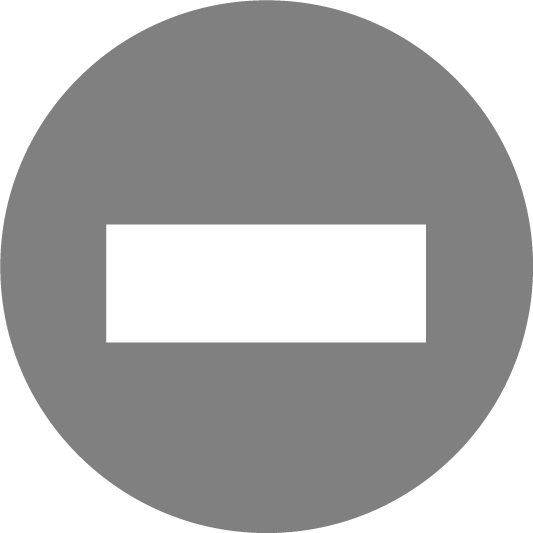
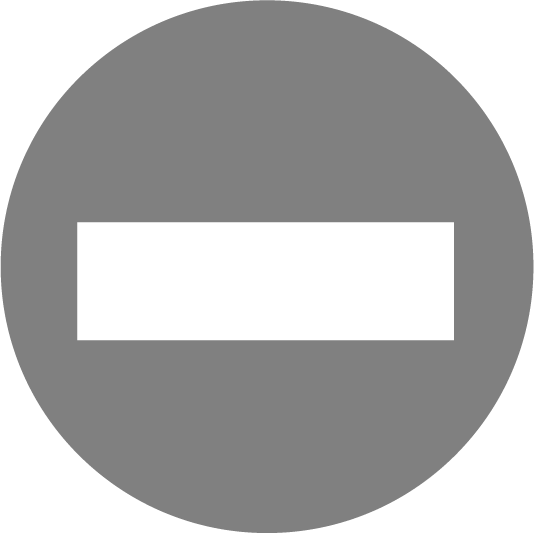
Use a real ignore build.

Changed region(s): [[0.1201, 0.3902, 0.8705, 0.6604], [0.9906, 0.3902, 1.0, 0.6004]]

diff --git a/germanium_build_monitor/ui/monitor/JenkinsBuildBranchFrame.py b/germanium_build_monitor/ui/monitor/JenkinsBuildBranchFrame.py
@@ -1,4 +1,4 @@
-from mopyx import render_call
+from mopyx import render_call, render
 import arrow
 
 from PySide2.QtWidgets import QWidget
@@ -6,7 +6,7 @@ from PySide2.QtCore import QSize
 
 from germanium_build_monitor.ui.generated.Ui_JenkinsBuildBranchFrame import Ui_Form
 from germanium_build_monitor.model.JenkinsJobBranch import JenkinsJobBranch
-from germanium_build_monitor.resources.icons import aggregate_status_icon
+from germanium_build_monitor.resources.icons import aggregate_status_icon, get_icon
 from germanium_build_monitor.ui.core import clear_layout
 
 from .SingleBuildStatusFrame import SingleBuildStatusFrame
@@ -20,6 +20,9 @@ class JenkinsBuildBranchFrame(QWidget, Ui_Form):
 
         self.project_name_label.setText(branch.project_name)
         self.branch_name_label.setText(branch.decoded_branch_name)
+
+        self.ignore_branch_button.setIcon(get_icon("build_ignored.png"))
+        self.ignore_branch_button.toggled.connect(branch.set_ignored)
 
         @render_call
         def update_status_icon() -> None:
@@ -40,3 +43,9 @@ class JenkinsBuildBranchFrame(QWidget, Ui_Form):
 
             time = arrow.get(branch.last_build_timestamp / 1000.0).humanize()
             self.time_label.setText(time)
+
+        @render(ignore_updates=True)
+        def update_ignore_branch_button():
+            self.ignore_branch_button.setChecked(branch.is_ignored)
+
+        update_ignore_branch_button()

diff --git a/germanium_build_monitor/model/JenkinsMonitoredJob.py b/germanium_build_monitor/model/JenkinsMonitoredJob.py
@@ -1,5 +1,5 @@
 from typing import List, Optional, Dict, Any, Set
-from mopyx import model
+from mopyx import model, action
 
 
 @model
@@ -12,6 +12,15 @@ class JenkinsMonitoredJob:
         self.full_name: str = full_name if full_name else name
         self.branches: Optional[List[JenkinsJobBranch]] = None
         self.ignored_branches: Set[str] = ignored_branches if ignored_branches else set()
+
+    @action
+    def set_ignored_branch(self, branch, ignored: bool) -> None:
+        if ignored:
+            self.ignored_branches.add(branch.branch_name)
+        else:
+            self.ignored_branches.remove(branch.branch_name)
+
+        self.ignored_branches = self.ignored_branches
 
     def as_dict(self) -> Dict[str, Any]:
         return {

diff --git a/germanium_build_monitor/model/JenkinsJobBranch.py b/germanium_build_monitor/model/JenkinsJobBranch.py
@@ -1,6 +1,6 @@
 from typing import List, Optional
 
-from mopyx import model, computed
+from mopyx import model, computed, action
 import urllib.parse
 
 from .BuildStatus import BuildStatus
@@ -55,6 +55,10 @@ class JenkinsJobBranch:
     @computed
     def is_ignored(self) -> bool:
         return self.branch_name in self.parent_monitored_job.ignored_branches
+
+    @action
+    def set_ignored(self, ignored: bool) -> None:
+        self.parent_monitored_job.set_ignored_branch(self, ignored)
 
     @computed
     def last_builds(self) -> List[JenkinsJobBranchBuild]:

diff --git a/germanium_build_monitor/resources/icons.py b/germanium_build_monitor/resources/icons.py
@@ -31,7 +31,9 @@ def build_status_icon(status: BuildStatus) -> QtGui.QIcon:
     elif status == BuildStatus.RUNNING:
         return get_icon("unknown_builds_in_progress.png")
     elif status == BuildStatus.NEVER:
-        return get_icon("never128.png")
+        return get_icon("build_ignored.png")
+    elif status == BuildStatus.IGNORED:
+        return get_icon("build_ignored.png")
     else:
         raise Exception(f"Unsupported value {status}")
 
